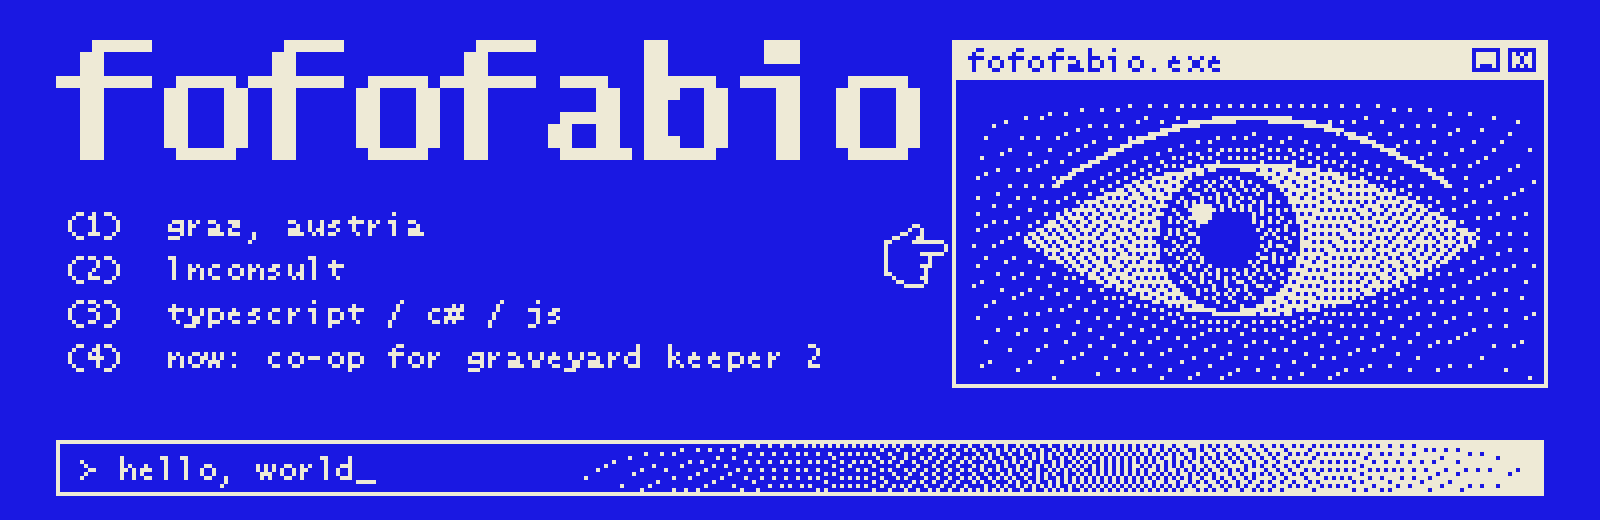
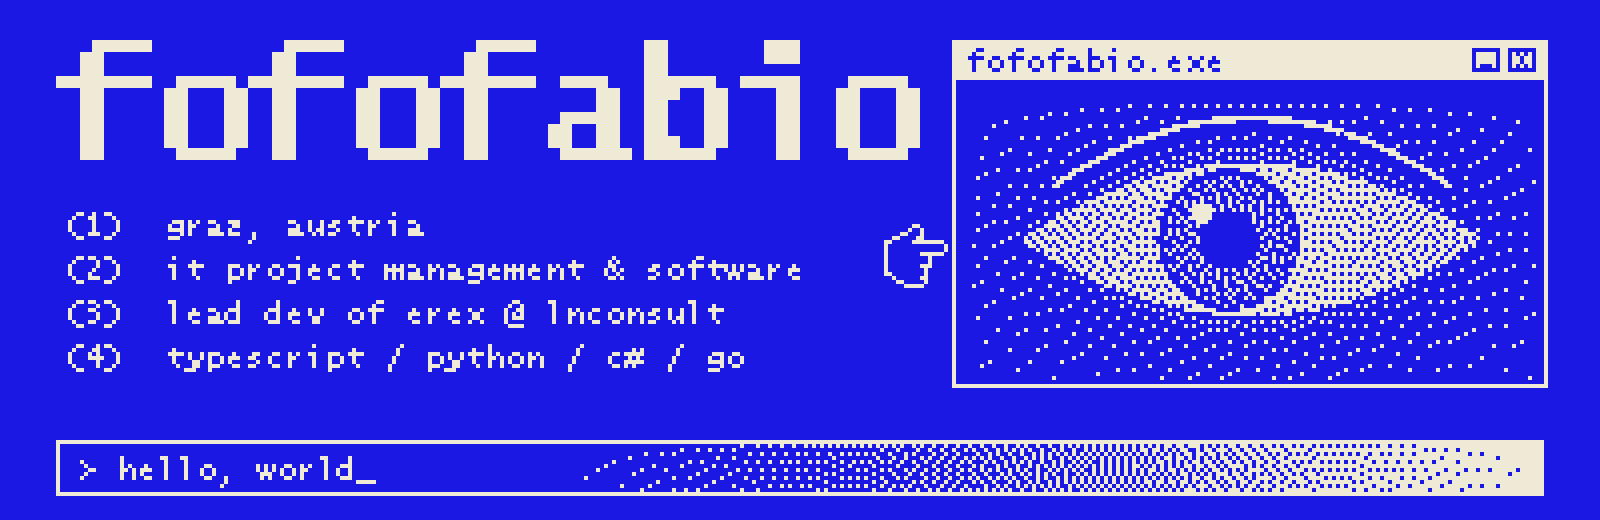
Profile: work, projects and stack from the CV

Changed region(s): [[0.0938, 0.4923, 0.5, 0.5538], [0.0938, 0.5846, 0.4688, 0.6462], [0.0938, 0.6769, 0.5312, 0.7077]]

diff --git a/README.md b/README.md
@@ -1,21 +1,37 @@
 <p align="center">
-  <img src="banner.png" alt="fofofabio: graz, austria; lnconsult; typescript, c#, js; now: co-op for graveyard keeper 2" width="100%">
+  <img src="banner.png" alt="fofofabio: graz, austria; it project management and software; lead dev of erex at lnconsult; typescript, python, c#, go" width="100%">
 </p>
 
 ```text
 > whoami
-  fabio  //  graz  //  lnconsult
+  fabio unterholzer  //  graz, austria
+  it project management & software
 
 > cat now.txt
-  co-op for graveyard keeper 2: the beta is out
+  junior it project manager @ lnconsult gmbh
+  lead developer of erex, a distributed esl rendering engine
 
 > ls ./projects
-  graveyard-keeper-2-coop    fofo-club
+  erex    fofoclub.at    graveyard-keeper-2-coop    fofobot
+
+> cat stack.txt
+  typescript  python  c#  kotlin  go
+  react  next.js  node  fastify  bullmq  redis  postgres  docker
 ```
 
 <p align="center">
+  <a href="https://www.fofoclub.at">fofoclub.at</a> &nbsp;·&nbsp;
+  <a href="https://www.fofoclub.at/cv">cv</a> &nbsp;·&nbsp;
+  <a href="https://www.linkedin.com/in/fabio-unterholzer">linkedin</a>
+</p>
+
+<p align="center">
+  <img src="card-erex.png" alt="erex: esl rendering engine, about 200 ms per label, typescript and redis, at lnconsult" width="49%">
+  <a href="https://github.com/fofofabio/fofo-club"><img src="card-fofo-club.png" alt="fofoclub.at: personal site, next.js, react, typescript, postgres" width="49%"></a>
+</p>
+<p align="center">
   <a href="https://github.com/fofofabio/graveyard-keeper-2-coop"><img src="card-gk2coop.png" alt="graveyard-keeper-2-coop: co-op mod, 2-4 players, c#, beta" width="49%"></a>
-  <a href="https://github.com/fofofabio/fofo-club"><img src="card-fofo-club.png" alt="fofo-club: personal website, typescript" width="49%"></a>
+  <img src="card-fofobot.png" alt="fofobot: local chat app, next.js and sqlite, no cloud" width="49%">
 </p>
 
 <p align="center">
